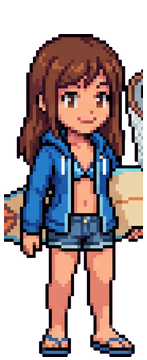
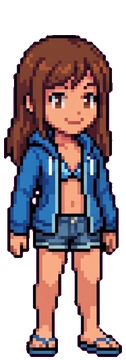
v10.2: cidade com profundidade, treinador montado, caminhada animada, rivais corrigidos, sem NPCs andando, HUD sem +

diff --git a/dev/combate.html b/dev/combate.html
@@ -3367,20 +3367,25 @@ for(const k of Object.keys(LIB_KIND)) for(let t=1;t<=4;t++) ICON_FILE[libKey(k,t
 const ico = (k, cls='') => ICON_FILE[k] ? `<img class="ico ${cls}" src="ui/${ICON_FILE[k]}.png" alt="">` : `<i class="dot" style="background:${(ITEMS[k]||{}).color||'#ffc23d'}"></i>`;
 // ===== Personagens (arte final): sprites recortados em char/. Sem a imagem, cai no desenho provisório =====
 const CHAR = {}, CHARO = {}; // CHAR: pixel art (cidade) · CHARO: arte original (resto do jogo)
-const ASSET_V = '94'; // muda quando as imagens dos personagens/cidade mudarem (o navegador guarda as antigas)
+const ASSET_V = '95'; // muda quando as imagens dos personagens/cidade mudarem (o navegador guarda as antigas)
 for(const k of [...['heroM','heroF','heroG','heroS'].flatMap(h=>[0,1,2,3,4,5].map(i=>`${h}_${i}`)), ...[0,1,2,3,4].map(i=>`npc_${i}`), ...[0,1,2,3,4,5].map(i=>`tr_${i}`), 'rideM','rideF','rideS','rideG']){
   const im = new Image(); im.onload = ()=>{ bg = null; if(typeof cityBg!=='undefined') cityBg = null; if(!$('starter').hidden) pickStarter(); }; im.src = `char/${k}.png?v=${ASSET_V}`; CHAR[k] = im;
   const io = new Image(); io.src = `charo/${k}.png?v=${ASSET_V}`; CHARO[k] = io; }
+for(const h of 'MF') for(const m of ['cabrito','lagarto','grifo','lobo']){ const im = new Image(); im.src = `char/rd${h}_${m}.png?v=${ASSET_V}`; CHAR[`rd${h}_${m}`] = im; } // treinador montado (pixel, só cidade)
+for(const h of 'MF') for(const d of 'sfb') for(let i=0;i<4;i++){ const im = new Image(); im.src = `char/wk${h}_${d}${i}.png?v=${ASSET_V}`; CHAR[`wk${h}_${d}${i}`] = im; } // passos do treinador (pixel, só cidade)
 const heroKey = view => `hero${(save && save.costume) || (save && save.hero) || 'M'}_${view}`; // 0 frente · 1 três-quartos · 2 lado (andando) · 3 costas · 4 costas arremessando · 5 costas comemorando
 const heroPose = view => { const k = heroKey(view), im = CHAR[k]; return im && im.complete && im.naturalWidth ? k : heroKey(3); };
 const charOk = im => im && im.complete && im.naturalWidth;
 function drawSprite(g, key, x, y, h=124, flip=false, o={}){
   const im = PX_SCENE ? (charOk(CHAR[key]) ? CHAR[key] : CHARO[key]) : (charOk(CHARO[key]) ? CHARO[key] : CHAR[key]); if(!charOk(im)) return false;
   const w = im.naturalWidth*h/im.naturalHeight, bob = o.bob||0;
-  if(!o.noShadow){ g.fillStyle='#0005'; g.beginPath(); g.ellipse(x,y+2,w*.32,9,0,0,7); g.fill(); }
+  if(!o.noShadow && !PX_SCENE){ g.fillStyle='#0005'; g.beginPath(); g.ellipse(x,y+2,w*.32,9,0,0,7); g.fill(); } // cidade: sombra vem do cenário
   g.save(); g.translate(x, y+bob); if(flip) g.scale(-1,1); if(o.clipY!=null){ g.beginPath(); g.rect(-w,-h-10,w*2,h+10-o.clipY); g.clip(); } g.drawImage(im,-w/2,-h,w,h); g.restore(); return true;
 }
 function drawTrainer(g,x,y,o={}){
+  if(o.sprite !== false && !o.sprite && PX_SCENE && o.walk && !(save && (save.costume==='G' || save.costume==='S'))){ // cidade: quadros de caminhada de verdade (pernas alternando)
+    const d = o.dir==='up' ? 'b' : o.dir==='down' ? 'f' : 's', k = `wk${(save&&save.hero)==='F'?'F':'M'}_${d}${Math.floor(o.walk/125)%4}`;
+    if(charOk(CHAR[k])){ const bob = -Math.abs(Math.sin(o.walk/125*Math.PI/2))*2; if(drawSprite(g, k, x, y, o.h||124, (o.face||1) < 0 && d==='s', {bob, noShadow:o.noShadow})) return; } }
   if(o.sprite !== false){ const walking = o.walk || o.step, pose = o.sprite || heroKey(!walking ? 1 : o.dir==='up' ? 3 : o.dir==='down' ? 0 : 2);
     const ph = o.walk ? o.walk/90 : 0, bob = walking ? -Math.abs(Math.sin(ph))*5 : 0, tilt = walking ? Math.sin(ph)*0.06 : 0; // passos: sobe/desce e balança de leve
     g.save(); if(tilt){ g.translate(x, y); g.rotate(tilt); g.translate(-x, -y); } const ok = drawSprite(g, pose, x, y, o.h||124, (o.face||1) < 0 && (!walking || o.dir==='side' || !o.dir), {bob}); g.restore(); if(ok) return; }
@@ -3426,7 +3431,9 @@ function drawMount(g, k, x, y, sc=1, face=1, step=0){
 const SADDLE = {cabrito:[-.08,.6], lagarto:[.03,.58], grifo:[-.02,.5], lobo:[-.14,.62]}; // posição da sela: fração da largura a partir do centro, fração da altura a partir do chão
 function drawRider(g, x, y, o={}){
   if(!o.mount) return drawTrainer(g,x,y,o);
-  const f = o.face||1, step = o.step||0, lift = -Math.abs(step)*1.5; drawMount(g, o.mount, x, y, 1, f, step);
+  const f = o.face||1, step = o.step||0, lift = -Math.abs(step)*1.5;
+  if(PX_SCENE){ const rk2 = `rd${(save&&save.hero)==='F'?'F':'M'}_${o.mount}`; if(charOk(CHAR[rk2])){ const ph = o.walk ? o.walk/90 : 0, bob = o.walk ? -Math.abs(Math.sin(ph*1.4))*4 : 0; // imagem única: treinador sentado na montaria
+    drawSprite(g, rk2, x, y, 212, f<0, {bob}); return; } } drawMount(g, o.mount, x, y, 1, f, step);
   const H = o.h||124, mi = monImg('m:'+o.mount), S = SADDLE[o.mount];
   const sx = mi ? S[0]*150*mi.naturalWidth/mi.naturalHeight*f : -4*f, seat = mi ? S[1]*150 : 50;
   const rk = `ride${(save&&save.costume)||(save&&save.hero)||'M'}`;
@@ -4583,7 +4590,42 @@ function bakeCity(){
   g.save(); g.scale(S,S); g.globalCompositeOperation = 'soft-light'; const lg = g.createLinearGradient(0,0,CW,CH); lg.addColorStop(0,'rgba(255,220,160,.22)'); lg.addColorStop(1,'rgba(60,40,120,.18)'); g.fillStyle = lg; g.fillRect(0,0,CW,CH); g.restore();
   const occ = OCC.map(o=>{ const b = occBox(o); if(b.w<=0||b.h<=0) return null; const oc = document.createElement('canvas'); oc.width = Math.max(1,Math.round(b.w*S)); oc.height = Math.max(1,Math.round(b.h*S)); const og = oc.getContext('2d');
     og.scale(S,S); og.translate(-b.x,-b.y); occPath(og, o.s); og.clip(); og.setTransform(1,0,0,1,0,0); og.drawImage(c, Math.round(b.x*S), Math.round(b.y*S), oc.width, oc.height, 0, 0, oc.width, oc.height); return {...b, c:oc}; });
-  return {c, S, occ}; }
+  // mapa de luz (sombra de árvores/prédios escurece quem passa) e versão desfocada (profundidade de campo nas bordas)
+  let lum = null, lumMean = 0; try{ const lw = Math.round(CW/16), lh = Math.round(CH/16), lc = document.createElement('canvas'); lc.width = lw; lc.height = lh; const lg2 = lc.getContext('2d'); lg2.drawImage(c, 0, 0, lw, lh);
+    const d = lg2.getImageData(0,0,lw,lh).data; lum = new Float32Array(lw*lh); for(let i=0;i<lw*lh;i++){ lum[i] = (d[i*4]*.3 + d[i*4+1]*.59 + d[i*4+2]*.11)/255; lumMean += lum[i]; } lumMean /= lw*lh; lum.w = lw; lum.h = lh; }catch(e){ lum = null; }
+  let blur = null; if(!GFX_LOW){ blur = document.createElement('canvas'); blur.width = Math.round(bw/2); blur.height = Math.round(bh/2); const bg2 = blur.getContext('2d'); bg2.filter = 'blur(3px)'; bg2.drawImage(c, 0, 0, blur.width, blur.height); }
+  return {c, S, occ, lum, lumMean, blur}; }
+// luz do lugar onde o personagem pisa (0 = claro, até ~.5 = sombra forte)
+function cityShade(x, y){ const L = cityBg && cityBg.lum; if(!L) return 0; let t = 0, n = 0;
+  for(let dy=-1; dy<=1; dy++) for(let dx=-1; dx<=1; dx++){ const ix = Math.max(0, Math.min(L.w-1, Math.round(x/16)+dx)), iy = Math.max(0, Math.min(L.h-1, Math.round((y-14)/16)+dy)); t += L[iy*L.w+ix]; n++; }
+  return Math.max(0, Math.min(.5, (cityBg.lumMean - t/n)*1.6)); }
+// personagem "dentro" do cenário: sombra projetada pelo sol (baixo-direita), escurece na sombra, luz quente por cima
+const LIT = {c:null, s:null};
+function drawLit(g, x, y, f){
+  const S = cityBg ? cityBg.S : 1, bx = 170, top = 310, bot = 30, w = Math.round(bx*2*S), h = Math.round((top+bot)*S);
+  if(!LIT.c){ LIT.c = document.createElement('canvas'); LIT.s = document.createElement('canvas'); }
+  const C = LIT.c, Sh = LIT.s; if(C.width !== w || C.height !== h){ C.width = Sh.width = w; C.height = Sh.height = h; }
+  const cg = C.getContext('2d'); cg.setTransform(1,0,0,1,0,0); cg.clearRect(0,0,w,h); cg.setTransform(S,0,0,S,-(x-bx)*S,-(y-top)*S); cg.imageSmoothingEnabled = true; f(cg);
+  cg.setTransform(1,0,0,1,0,0); const dk = cityShade(x, y);
+  cg.globalCompositeOperation = 'source-atop'; if(dk > .02){ cg.fillStyle = `rgba(22,18,48,${dk})`; cg.fillRect(0,0,w,h); } cg.fillStyle = 'rgba(255,196,130,.07)'; cg.fillRect(0,0,w,h); cg.globalCompositeOperation = 'source-over';
+  const sg = Sh.getContext('2d'); sg.setTransform(1,0,0,1,0,0); sg.clearRect(0,0,w,h); sg.drawImage(C,0,0); sg.globalCompositeOperation = 'source-in'; sg.fillStyle = '#140f26'; sg.fillRect(0,0,w,h); sg.globalCompositeOperation = 'source-over';
+  g.save(); g.globalAlpha = .26*(1-dk*1.4); g.transform(1, 0, -.75, -.34, x, y); g.drawImage(Sh, -bx, -top, bx*2, top+bot); g.restore(); // sombra deitada no chão
+  g.drawImage(C, x-bx, y-top, bx*2, top+bot); }
+const VIGN = {c:null};
+function cityPost(g, ts){ // depois dos personagens: sombras de nuvens, névoa ao longe e vinheta (dá profundidade)
+  const W2 = g.canvas.width, H2 = g.canvas.height; g.save(); g.setTransform(1,0,0,1,0,0);
+  if(!GFX_LOW){ g.globalCompositeOperation = 'multiply'; for(let i=0;i<3;i++){ const t = ts/1000*(6+i*2), cx = ((i*0.37*W2*3 + t*W2/90) % (W2*1.8)) - W2*.4, cy = H2*(.2+.3*i), r = W2*(.22+.05*i);
+      const gr = g.createRadialGradient(cx,cy,r*.1,cx,cy,r); gr.addColorStop(0,'rgba(70,80,120,.16)'); gr.addColorStop(1,'rgba(70,80,120,0)'); g.fillStyle = gr; g.fillRect(cx-r,cy-r,r*2,r*2); } g.globalCompositeOperation = 'source-over'; }
+  const hz = g.createLinearGradient(0,0,0,H2*.35); hz.addColorStop(0,'rgba(190,215,255,.12)'); hz.addColorStop(1,'rgba(190,215,255,0)'); g.fillStyle = hz; g.fillRect(0,0,W2,H2*.35);
+  if(!VIGN.c || VIGN.c.width !== W2 || VIGN.c.height !== H2){ const v = VIGN.c = document.createElement('canvas'); v.width = W2; v.height = H2; const vg = v.getContext('2d'); const gr = vg.createRadialGradient(W2/2,H2*.55,Math.min(W2,H2)*.35,W2/2,H2*.55,Math.max(W2,H2)*.75); gr.addColorStop(0,'rgba(10,8,30,0)'); gr.addColorStop(1,'rgba(10,8,30,.42)'); vg.fillStyle = gr; vg.fillRect(0,0,W2,H2); }
+  g.drawImage(VIGN.c, 0, 0); g.restore(); }
+function cityDof(g){ // profundidade de campo: em cima (longe) e embaixo (perto da câmera) levemente desfocados
+  const B = cityBg; if(!B || !B.blur || GFX_LOW) return; const W2 = g.canvas.width, H2 = g.canvas.height, S = B.S;
+  if(!cityDof.c){ cityDof.c = document.createElement('canvas'); } const T = cityDof.c;
+  for(const [y0, hh, fromTop] of [[0, H2*.24, true], [H2*.84, H2*.16, false]]){ const hi = Math.ceil(hh); if(T.width !== W2 || T.height !== hi){ T.width = W2; T.height = hi; }
+    const tg = T.getContext('2d'); tg.globalCompositeOperation = 'source-over'; tg.clearRect(0,0,W2,hi); tg.drawImage(B.blur, cam.x*S/2, (cam.y*S + y0)/2, W2/2, hi/2, 0, 0, W2, hi);
+    const m = tg.createLinearGradient(0,0,0,hi); if(fromTop){ m.addColorStop(0,'#000'); m.addColorStop(1,'rgba(0,0,0,0)'); } else { m.addColorStop(0,'rgba(0,0,0,0)'); m.addColorStop(1,'#000'); }
+    tg.globalCompositeOperation = 'destination-in'; tg.fillStyle = m; tg.fillRect(0,0,W2,hi); g.drawImage(T, 0, Math.round(y0)); } }
 const SHADOW_SPR = (()=>{ const c = document.createElement('canvas'); c.width = c.height = 128; const g = c.getContext('2d'); const gr = g.createRadialGradient(64,64,1,64,64,64); gr.addColorStop(0,'rgba(20,16,30,.38)'); gr.addColorStop(.6,'rgba(20,16,30,.17)'); gr.addColorStop(1,'rgba(20,16,30,0)'); g.fillStyle = gr; g.fillRect(0,0,128,128); return c; })();
 const GLOW_SPR = (()=>{ const c = document.createElement('canvas'); c.width = c.height = 128; const g = c.getContext('2d'); const gr = g.createRadialGradient(64,64,2,64,64,64); gr.addColorStop(0,'rgba(255,240,190,1)'); gr.addColorStop(1,'rgba(255,240,190,0)'); g.fillStyle = gr; g.fillRect(0,0,128,128); return c; })();
 function drawOcc(g, o, i){ const k = cityBg && cityBg.occ[i]; if(k) g.drawImage(k.c, k.x, k.y, k.w, k.h); }
@@ -4667,7 +4709,7 @@ function renderCity0(ts){
   const g = cctx, KC = cityK(); if(ccv.width !== Math.round(W*KC)){ ccv.width = Math.round(W*KC); ccv.height = Math.round(H*KC); cityBg = null; }
   if(!cityBg || cityBg.S !== KC*CZ) cityBg = bakeCity();
   g.setTransform(1,0,0,1,0,0); g.fillStyle='#3a5a3a'; g.fillRect(0,0,ccv.width,ccv.height);
-  if(cityBg){ const S = cityBg.S; g.drawImage(cityBg.c, Math.round(cam.x*S), Math.round(cam.y*S), ccv.width, ccv.height, 0, 0, ccv.width, ccv.height); }
+  if(cityBg){ const S = cityBg.S; g.drawImage(cityBg.c, Math.round(cam.x*S), Math.round(cam.y*S), ccv.width, ccv.height, 0, 0, ccv.width, ccv.height); cityDof(g); }
   g.setTransform(KC*CZ,0,0,KC*CZ,-cam.x*KC*CZ,-cam.y*KC*CZ); g.imageSmoothingEnabled = true;
   // brilho suave da fonte e dos pedestais (vida no cenário)
   if(!GFX_LOW){ const t = ts/900; g.save(); g.globalCompositeOperation = 'lighter'; for(const [x,y] of [[1210,520],[890,800],[1600,800],[1210,1040]]){ g.globalAlpha = .10 + .06*Math.sin(t + x); g.drawImage(GLOW_SPR, x-120, y-120, 240, 240); } g.restore(); }
@@ -4679,13 +4721,14 @@ function renderCity0(ts){
     late.push(()=>{ const yy = a.y - 150*PK(a.y); g.font = '800 17px "Baloo 2",sans-serif'; g.textAlign = 'center'; const t1 = `Top 1 ${a.t}`, t2 = r.name, tw = Math.max(g.measureText(t1).width, g.measureText(t2).width)+22;
       g.fillStyle = '#2a1606e0'; g.strokeStyle = '#ffd25a'; g.lineWidth = 2; g.beginPath(); g.roundRect(a.x-tw/2, yy-38, tw, 44, 9); g.fill(); g.stroke();
       g.fillStyle = '#ffd25a'; g.fillText(t1, a.x, yy-20); g.fillStyle = r.me ? '#7fe0ff' : '#fff'; g.fillText(t2, a.x, yy); }); });
-  const who = (x,y,f) => items.push({y, d:()=>{ softShadow(g, x, y, 30*PK(y)); f(); }});
-  for(const w of WANDER){ who(w.x, w.y, ()=>{ CS(g,w.x,w.y,()=>drawTrainer(g,w.x,w.y,{shirt:w.shirt,cap:w.cap,hair:w.hair,face:w.face,dir:w.dir,walk:w.walk||0,step:w.walk?Math.sin(w.walk/90)*6:0, sprite:`tr_${WANDER.indexOf(w)%6}`, noShadow:true})); late.push(()=>{ label(g,w.x,w.y-104*PK(w.y),w.name,w.real?'#ffd25a':'#bff4ff'); if(w.sayT>0) bubble(g, w.x, w.y-122*PK(w.y), w.say); }); });
+  const who = (x,y,f) => items.push({y, d:()=>{ softShadow(g, x, y, 30*PK(y)); if(GFX_LOW || !cityBg) f(g); else drawLit(g, x, y, f); }});
+  if(false) for(const w of WANDER){ who(w.x, w.y, ()=>{ CS(g,w.x,w.y,()=>drawTrainer(g,w.x,w.y,{shirt:w.shirt,cap:w.cap,hair:w.hair,face:w.face,dir:w.dir,walk:w.walk||0,step:w.walk?Math.sin(w.walk/90)*6:0, sprite:`tr_${WANDER.indexOf(w)%6}`, noShadow:true})); late.push(()=>{ label(g,w.x,w.y-104*PK(w.y),w.name,w.real?'#ffd25a':'#bff4ff'); if(w.sayT>0) bubble(g, w.x, w.y-122*PK(w.y), w.say); }); });
     who(w.px, w.py, ()=>{ CS(g,w.px,w.py,()=>drawCreature(g,w.sp,w.px,w.py,.72,w.face,{form:w.form, walk:w.walk||0, noShadow:true})); }); }
   const sp0 = save.team[0], o0 = save.owned[sp0];
-  who(me.x, me.y, ()=>{ CS(g,me.x,me.y,()=>drawRider(g,me.x,me.y,{face:me.face, dir:me.dir, walk:me.walk||0, step:me.walk?Math.sin(me.walk/90)*6:0, mount:save.mount&&save.mount.cur})); late.push(()=>label(g,me.x,me.y-110*PK(me.y),'Você','#7fe0ff')); });
-  who(pet.x, pet.y, ()=>{ CS(g,pet.x,pet.y,()=>drawCreature(g,sp0,pet.x,pet.y,.8,me.face,{form:o0.form, bob:me.walk?0:Math.sin(ts/200)*2, walk:me.walk||0, noShadow:true})); late.push(()=>label(g,pet.x,pet.y-62*PK(pet.y),unitOf(sp0).name,'#7dff6a')); });
+  who(me.x, me.y, gg=>{ CS(gg,me.x,me.y,()=>drawRider(gg,me.x,me.y,{face:me.face, dir:me.dir, walk:me.walk||0, step:me.walk?Math.sin(me.walk/90)*6:0, mount:save.mount&&save.mount.cur})); late.push(()=>label(g,me.x,me.y-(save.mount&&save.mount.cur?212:132)*PK(me.y),'Você','#7fe0ff')); });
+  who(pet.x, pet.y, gg=>{ CS(gg,pet.x,pet.y,()=>drawCreature(gg,sp0,pet.x,pet.y,.8,me.face,{form:o0.form, bob:me.walk?0:Math.sin(ts/200)*2, walk:me.walk||0, noShadow:true})); late.push(()=>label(g,pet.x,pet.y-62*PK(pet.y),unitOf(sp0).name,'#7dff6a')); });
   items.sort((a,b)=>a.y-b.y).forEach(i=>i.d());
+  cityPost(g, ts);
   late.forEach(f=>f());
   // placas dos lugares
   for(const b of BUILDINGS){ if(b.noTag) continue; g.font='800 22px "Baloo 2",sans-serif'; g.textAlign='center'; const tw = g.measureText(b.name).width+24, near = nearB===b;
@@ -4695,7 +4738,7 @@ function renderCity0(ts){
 }
 ccv.addEventListener('pointerdown', e=>{
   const r = ccv.getBoundingClientRect(), x = (e.clientX-r.left)*W/r.width/CZ + cam.x, y = (e.clientY-r.top)*H/r.height/CZ + cam.y;
-  const w = WANDER.find(w=>Math.abs(x-w.x)<24 && y<w.y+6 && y>w.y-110);
+  const w = null;
   if(w) return toast(w.real ? `${w.name} · jogador real · Poder ${w.power} · Nv ${w.lv}` : `${w.name} · Poder ${w.power} · treinador da Arena`);
   const al = ALTARS.find(a=>Math.hypot(x-a.x, y-(a.y-60))<80); if(al){ rankTab = al.tab; me.tx = al.x; me.ty = al.base+30; me.after = 'rank'; return; }
   const b = BUILDINGS.find(b=>{ const [hx,hy,hw,hh] = b.hit; return (x>hx&&x<hx+hw&&y>hy&&y<hy+hh) || Math.hypot(x-b.tag.x,y-b.tag.y)<70; });
@@ -4806,7 +4849,7 @@ function renderCityHud0(){
   const T = titleOf(save);
   { const lv = save.trainer.lv, need = expTrainer(lv), xp = isFinite(need) ? Math.min(100, Math.round(100*(save.trainer.exp||0)/need)) : 100;
     $('cRes').innerHTML = `<div class="cName"><span class="cNick">${(save.name||'Treinador').replace(/</g,'')}</span><div class="cPlate" title="Título">${T.name}</div><div class="cXp" title="EXP do treinador ${xp}%"><i style="width:${xp}%"></i></div></div>`
-      + `<div class="cResBar"><span class="rplate rp-dia">${ico('dia','rico')}<b>+${fmtN(save.diamonds||0)}</b></span><span class="rplate rp-gold pbtn" data-buy="gold" role="button" title="Trocar diamantes por ouro">${ico('gold','rico')}<b>+${fmtN(save.gold)}</b></span><span class="rplate rp-vit pbtn" data-buy="vit" role="button" title="Comprar VIT">${ico('vit','rico')}<b>+${vitNow(save,now)}/${vitMax(save)}</b></span></div>`; }
+      + `<div class="cResBar"><span class="rplate rp-dia">${ico('dia','rico')}<b>${fmtN(save.diamonds||0)}</b></span><span class="rplate rp-gold pbtn" data-buy="gold" role="button" title="Trocar diamantes por ouro">${ico('gold','rico')}<b>${fmtN(save.gold)}</b></span><span class="rplate rp-vit pbtn" data-buy="vit" role="button" title="Comprar VIT">${ico('vit','rico')}<b>${vitNow(save,now)}/${vitMax(save)}</b></span></div>`; }
   $('cRes').querySelectorAll('[data-buy]').forEach(b=> b.onclick = ()=> b.dataset.buy==='gold' ? openGoldEx() : openVitBuy());
   const dot = (id,n)=>{ const b = $(id); if(!b) return; const o = b.querySelector('.dotn'); if(o) o.remove(); if(n) b.insertAdjacentHTML('beforeend', `<b class="dotn">${n}</b>`); };
   dot('cbAch', featOpen('ach') && achReady()); dot('cbEvt', featOpen('evt') && evtReady()); dot('cbLogin', !featOpen('login') || loginToday().claimed ? 0 : '!'); renderFeatLocks();

diff --git a/site/index.html b/site/index.html
@@ -3367,20 +3367,25 @@ for(const k of Object.keys(LIB_KIND)) for(let t=1;t<=4;t++) ICON_FILE[libKey(k,t
 const ico = (k, cls='') => ICON_FILE[k] ? `<img class="ico ${cls}" src="ui/${ICON_FILE[k]}.png" alt="">` : `<i class="dot" style="background:${(ITEMS[k]||{}).color||'#ffc23d'}"></i>`;
 // ===== Personagens (arte final): sprites recortados em char/. Sem a imagem, cai no desenho provisório =====
 const CHAR = {}, CHARO = {}; // CHAR: pixel art (cidade) · CHARO: arte original (resto do jogo)
-const ASSET_V = '94'; // muda quando as imagens dos personagens/cidade mudarem (o navegador guarda as antigas)
+const ASSET_V = '95'; // muda quando as imagens dos personagens/cidade mudarem (o navegador guarda as antigas)
 for(const k of [...['heroM','heroF','heroG','heroS'].flatMap(h=>[0,1,2,3,4,5].map(i=>`${h}_${i}`)), ...[0,1,2,3,4].map(i=>`npc_${i}`), ...[0,1,2,3,4,5].map(i=>`tr_${i}`), 'rideM','rideF','rideS','rideG']){
   const im = new Image(); im.onload = ()=>{ bg = null; if(typeof cityBg!=='undefined') cityBg = null; if(!$('starter').hidden) pickStarter(); }; im.src = `char/${k}.png?v=${ASSET_V}`; CHAR[k] = im;
   const io = new Image(); io.src = `charo/${k}.png?v=${ASSET_V}`; CHARO[k] = io; }
+for(const h of 'MF') for(const m of ['cabrito','lagarto','grifo','lobo']){ const im = new Image(); im.src = `char/rd${h}_${m}.png?v=${ASSET_V}`; CHAR[`rd${h}_${m}`] = im; } // treinador montado (pixel, só cidade)
+for(const h of 'MF') for(const d of 'sfb') for(let i=0;i<4;i++){ const im = new Image(); im.src = `char/wk${h}_${d}${i}.png?v=${ASSET_V}`; CHAR[`wk${h}_${d}${i}`] = im; } // passos do treinador (pixel, só cidade)
 const heroKey = view => `hero${(save && save.costume) || (save && save.hero) || 'M'}_${view}`; // 0 frente · 1 três-quartos · 2 lado (andando) · 3 costas · 4 costas arremessando · 5 costas comemorando
 const heroPose = view => { const k = heroKey(view), im = CHAR[k]; return im && im.complete && im.naturalWidth ? k : heroKey(3); };
 const charOk = im => im && im.complete && im.naturalWidth;
 function drawSprite(g, key, x, y, h=124, flip=false, o={}){
   const im = PX_SCENE ? (charOk(CHAR[key]) ? CHAR[key] : CHARO[key]) : (charOk(CHARO[key]) ? CHARO[key] : CHAR[key]); if(!charOk(im)) return false;
   const w = im.naturalWidth*h/im.naturalHeight, bob = o.bob||0;
-  if(!o.noShadow){ g.fillStyle='#0005'; g.beginPath(); g.ellipse(x,y+2,w*.32,9,0,0,7); g.fill(); }
+  if(!o.noShadow && !PX_SCENE){ g.fillStyle='#0005'; g.beginPath(); g.ellipse(x,y+2,w*.32,9,0,0,7); g.fill(); } // cidade: sombra vem do cenário
   g.save(); g.translate(x, y+bob); if(flip) g.scale(-1,1); if(o.clipY!=null){ g.beginPath(); g.rect(-w,-h-10,w*2,h+10-o.clipY); g.clip(); } g.drawImage(im,-w/2,-h,w,h); g.restore(); return true;
 }
 function drawTrainer(g,x,y,o={}){
+  if(o.sprite !== false && !o.sprite && PX_SCENE && o.walk && !(save && (save.costume==='G' || save.costume==='S'))){ // cidade: quadros de caminhada de verdade (pernas alternando)
+    const d = o.dir==='up' ? 'b' : o.dir==='down' ? 'f' : 's', k = `wk${(save&&save.hero)==='F'?'F':'M'}_${d}${Math.floor(o.walk/125)%4}`;
+    if(charOk(CHAR[k])){ const bob = -Math.abs(Math.sin(o.walk/125*Math.PI/2))*2; if(drawSprite(g, k, x, y, o.h||124, (o.face||1) < 0 && d==='s', {bob, noShadow:o.noShadow})) return; } }
   if(o.sprite !== false){ const walking = o.walk || o.step, pose = o.sprite || heroKey(!walking ? 1 : o.dir==='up' ? 3 : o.dir==='down' ? 0 : 2);
     const ph = o.walk ? o.walk/90 : 0, bob = walking ? -Math.abs(Math.sin(ph))*5 : 0, tilt = walking ? Math.sin(ph)*0.06 : 0; // passos: sobe/desce e balança de leve
     g.save(); if(tilt){ g.translate(x, y); g.rotate(tilt); g.translate(-x, -y); } const ok = drawSprite(g, pose, x, y, o.h||124, (o.face||1) < 0 && (!walking || o.dir==='side' || !o.dir), {bob}); g.restore(); if(ok) return; }
@@ -3426,7 +3431,9 @@ function drawMount(g, k, x, y, sc=1, face=1, step=0){
 const SADDLE = {cabrito:[-.08,.6], lagarto:[.03,.58], grifo:[-.02,.5], lobo:[-.14,.62]}; // posição da sela: fração da largura a partir do centro, fração da altura a partir do chão
 function drawRider(g, x, y, o={}){
   if(!o.mount) return drawTrainer(g,x,y,o);
-  const f = o.face||1, step = o.step||0, lift = -Math.abs(step)*1.5; drawMount(g, o.mount, x, y, 1, f, step);
+  const f = o.face||1, step = o.step||0, lift = -Math.abs(step)*1.5;
+  if(PX_SCENE){ const rk2 = `rd${(save&&save.hero)==='F'?'F':'M'}_${o.mount}`; if(charOk(CHAR[rk2])){ const ph = o.walk ? o.walk/90 : 0, bob = o.walk ? -Math.abs(Math.sin(ph*1.4))*4 : 0; // imagem única: treinador sentado na montaria
+    drawSprite(g, rk2, x, y, 212, f<0, {bob}); return; } } drawMount(g, o.mount, x, y, 1, f, step);
   const H = o.h||124, mi = monImg('m:'+o.mount), S = SADDLE[o.mount];
   const sx = mi ? S[0]*150*mi.naturalWidth/mi.naturalHeight*f : -4*f, seat = mi ? S[1]*150 : 50;
   const rk = `ride${(save&&save.costume)||(save&&save.hero)||'M'}`;
@@ -4583,7 +4590,42 @@ function bakeCity(){
   g.save(); g.scale(S,S); g.globalCompositeOperation = 'soft-light'; const lg = g.createLinearGradient(0,0,CW,CH); lg.addColorStop(0,'rgba(255,220,160,.22)'); lg.addColorStop(1,'rgba(60,40,120,.18)'); g.fillStyle = lg; g.fillRect(0,0,CW,CH); g.restore();
   const occ = OCC.map(o=>{ const b = occBox(o); if(b.w<=0||b.h<=0) return null; const oc = document.createElement('canvas'); oc.width = Math.max(1,Math.round(b.w*S)); oc.height = Math.max(1,Math.round(b.h*S)); const og = oc.getContext('2d');
     og.scale(S,S); og.translate(-b.x,-b.y); occPath(og, o.s); og.clip(); og.setTransform(1,0,0,1,0,0); og.drawImage(c, Math.round(b.x*S), Math.round(b.y*S), oc.width, oc.height, 0, 0, oc.width, oc.height); return {...b, c:oc}; });
-  return {c, S, occ}; }
+  // mapa de luz (sombra de árvores/prédios escurece quem passa) e versão desfocada (profundidade de campo nas bordas)
+  let lum = null, lumMean = 0; try{ const lw = Math.round(CW/16), lh = Math.round(CH/16), lc = document.createElement('canvas'); lc.width = lw; lc.height = lh; const lg2 = lc.getContext('2d'); lg2.drawImage(c, 0, 0, lw, lh);
+    const d = lg2.getImageData(0,0,lw,lh).data; lum = new Float32Array(lw*lh); for(let i=0;i<lw*lh;i++){ lum[i] = (d[i*4]*.3 + d[i*4+1]*.59 + d[i*4+2]*.11)/255; lumMean += lum[i]; } lumMean /= lw*lh; lum.w = lw; lum.h = lh; }catch(e){ lum = null; }
+  let blur = null; if(!GFX_LOW){ blur = document.createElement('canvas'); blur.width = Math.round(bw/2); blur.height = Math.round(bh/2); const bg2 = blur.getContext('2d'); bg2.filter = 'blur(3px)'; bg2.drawImage(c, 0, 0, blur.width, blur.height); }
+  return {c, S, occ, lum, lumMean, blur}; }
+// luz do lugar onde o personagem pisa (0 = claro, até ~.5 = sombra forte)
+function cityShade(x, y){ const L = cityBg && cityBg.lum; if(!L) return 0; let t = 0, n = 0;
+  for(let dy=-1; dy<=1; dy++) for(let dx=-1; dx<=1; dx++){ const ix = Math.max(0, Math.min(L.w-1, Math.round(x/16)+dx)), iy = Math.max(0, Math.min(L.h-1, Math.round((y-14)/16)+dy)); t += L[iy*L.w+ix]; n++; }
+  return Math.max(0, Math.min(.5, (cityBg.lumMean - t/n)*1.6)); }
+// personagem "dentro" do cenário: sombra projetada pelo sol (baixo-direita), escurece na sombra, luz quente por cima
+const LIT = {c:null, s:null};
+function drawLit(g, x, y, f){
+  const S = cityBg ? cityBg.S : 1, bx = 170, top = 310, bot = 30, w = Math.round(bx*2*S), h = Math.round((top+bot)*S);
+  if(!LIT.c){ LIT.c = document.createElement('canvas'); LIT.s = document.createElement('canvas'); }
+  const C = LIT.c, Sh = LIT.s; if(C.width !== w || C.height !== h){ C.width = Sh.width = w; C.height = Sh.height = h; }
+  const cg = C.getContext('2d'); cg.setTransform(1,0,0,1,0,0); cg.clearRect(0,0,w,h); cg.setTransform(S,0,0,S,-(x-bx)*S,-(y-top)*S); cg.imageSmoothingEnabled = true; f(cg);
+  cg.setTransform(1,0,0,1,0,0); const dk = cityShade(x, y);
+  cg.globalCompositeOperation = 'source-atop'; if(dk > .02){ cg.fillStyle = `rgba(22,18,48,${dk})`; cg.fillRect(0,0,w,h); } cg.fillStyle = 'rgba(255,196,130,.07)'; cg.fillRect(0,0,w,h); cg.globalCompositeOperation = 'source-over';
+  const sg = Sh.getContext('2d'); sg.setTransform(1,0,0,1,0,0); sg.clearRect(0,0,w,h); sg.drawImage(C,0,0); sg.globalCompositeOperation = 'source-in'; sg.fillStyle = '#140f26'; sg.fillRect(0,0,w,h); sg.globalCompositeOperation = 'source-over';
+  g.save(); g.globalAlpha = .26*(1-dk*1.4); g.transform(1, 0, -.75, -.34, x, y); g.drawImage(Sh, -bx, -top, bx*2, top+bot); g.restore(); // sombra deitada no chão
+  g.drawImage(C, x-bx, y-top, bx*2, top+bot); }
+const VIGN = {c:null};
+function cityPost(g, ts){ // depois dos personagens: sombras de nuvens, névoa ao longe e vinheta (dá profundidade)
+  const W2 = g.canvas.width, H2 = g.canvas.height; g.save(); g.setTransform(1,0,0,1,0,0);
+  if(!GFX_LOW){ g.globalCompositeOperation = 'multiply'; for(let i=0;i<3;i++){ const t = ts/1000*(6+i*2), cx = ((i*0.37*W2*3 + t*W2/90) % (W2*1.8)) - W2*.4, cy = H2*(.2+.3*i), r = W2*(.22+.05*i);
+      const gr = g.createRadialGradient(cx,cy,r*.1,cx,cy,r); gr.addColorStop(0,'rgba(70,80,120,.16)'); gr.addColorStop(1,'rgba(70,80,120,0)'); g.fillStyle = gr; g.fillRect(cx-r,cy-r,r*2,r*2); } g.globalCompositeOperation = 'source-over'; }
+  const hz = g.createLinearGradient(0,0,0,H2*.35); hz.addColorStop(0,'rgba(190,215,255,.12)'); hz.addColorStop(1,'rgba(190,215,255,0)'); g.fillStyle = hz; g.fillRect(0,0,W2,H2*.35);
+  if(!VIGN.c || VIGN.c.width !== W2 || VIGN.c.height !== H2){ const v = VIGN.c = document.createElement('canvas'); v.width = W2; v.height = H2; const vg = v.getContext('2d'); const gr = vg.createRadialGradient(W2/2,H2*.55,Math.min(W2,H2)*.35,W2/2,H2*.55,Math.max(W2,H2)*.75); gr.addColorStop(0,'rgba(10,8,30,0)'); gr.addColorStop(1,'rgba(10,8,30,.42)'); vg.fillStyle = gr; vg.fillRect(0,0,W2,H2); }
+  g.drawImage(VIGN.c, 0, 0); g.restore(); }
+function cityDof(g){ // profundidade de campo: em cima (longe) e embaixo (perto da câmera) levemente desfocados
+  const B = cityBg; if(!B || !B.blur || GFX_LOW) return; const W2 = g.canvas.width, H2 = g.canvas.height, S = B.S;
+  if(!cityDof.c){ cityDof.c = document.createElement('canvas'); } const T = cityDof.c;
+  for(const [y0, hh, fromTop] of [[0, H2*.24, true], [H2*.84, H2*.16, false]]){ const hi = Math.ceil(hh); if(T.width !== W2 || T.height !== hi){ T.width = W2; T.height = hi; }
+    const tg = T.getContext('2d'); tg.globalCompositeOperation = 'source-over'; tg.clearRect(0,0,W2,hi); tg.drawImage(B.blur, cam.x*S/2, (cam.y*S + y0)/2, W2/2, hi/2, 0, 0, W2, hi);
+    const m = tg.createLinearGradient(0,0,0,hi); if(fromTop){ m.addColorStop(0,'#000'); m.addColorStop(1,'rgba(0,0,0,0)'); } else { m.addColorStop(0,'rgba(0,0,0,0)'); m.addColorStop(1,'#000'); }
+    tg.globalCompositeOperation = 'destination-in'; tg.fillStyle = m; tg.fillRect(0,0,W2,hi); g.drawImage(T, 0, Math.round(y0)); } }
 const SHADOW_SPR = (()=>{ const c = document.createElement('canvas'); c.width = c.height = 128; const g = c.getContext('2d'); const gr = g.createRadialGradient(64,64,1,64,64,64); gr.addColorStop(0,'rgba(20,16,30,.38)'); gr.addColorStop(.6,'rgba(20,16,30,.17)'); gr.addColorStop(1,'rgba(20,16,30,0)'); g.fillStyle = gr; g.fillRect(0,0,128,128); return c; })();
 const GLOW_SPR = (()=>{ const c = document.createElement('canvas'); c.width = c.height = 128; const g = c.getContext('2d'); const gr = g.createRadialGradient(64,64,2,64,64,64); gr.addColorStop(0,'rgba(255,240,190,1)'); gr.addColorStop(1,'rgba(255,240,190,0)'); g.fillStyle = gr; g.fillRect(0,0,128,128); return c; })();
 function drawOcc(g, o, i){ const k = cityBg && cityBg.occ[i]; if(k) g.drawImage(k.c, k.x, k.y, k.w, k.h); }
@@ -4667,7 +4709,7 @@ function renderCity0(ts){
   const g = cctx, KC = cityK(); if(ccv.width !== Math.round(W*KC)){ ccv.width = Math.round(W*KC); ccv.height = Math.round(H*KC); cityBg = null; }
   if(!cityBg || cityBg.S !== KC*CZ) cityBg = bakeCity();
   g.setTransform(1,0,0,1,0,0); g.fillStyle='#3a5a3a'; g.fillRect(0,0,ccv.width,ccv.height);
-  if(cityBg){ const S = cityBg.S; g.drawImage(cityBg.c, Math.round(cam.x*S), Math.round(cam.y*S), ccv.width, ccv.height, 0, 0, ccv.width, ccv.height); }
+  if(cityBg){ const S = cityBg.S; g.drawImage(cityBg.c, Math.round(cam.x*S), Math.round(cam.y*S), ccv.width, ccv.height, 0, 0, ccv.width, ccv.height); cityDof(g); }
   g.setTransform(KC*CZ,0,0,KC*CZ,-cam.x*KC*CZ,-cam.y*KC*CZ); g.imageSmoothingEnabled = true;
   // brilho suave da fonte e dos pedestais (vida no cenário)
   if(!GFX_LOW){ const t = ts/900; g.save(); g.globalCompositeOperation = 'lighter'; for(const [x,y] of [[1210,520],[890,800],[1600,800],[1210,1040]]){ g.globalAlpha = .10 + .06*Math.sin(t + x); g.drawImage(GLOW_SPR, x-120, y-120, 240, 240); } g.restore(); }
@@ -4679,13 +4721,14 @@ function renderCity0(ts){
     late.push(()=>{ const yy = a.y - 150*PK(a.y); g.font = '800 17px "Baloo 2",sans-serif'; g.textAlign = 'center'; const t1 = `Top 1 ${a.t}`, t2 = r.name, tw = Math.max(g.measureText(t1).width, g.measureText(t2).width)+22;
       g.fillStyle = '#2a1606e0'; g.strokeStyle = '#ffd25a'; g.lineWidth = 2; g.beginPath(); g.roundRect(a.x-tw/2, yy-38, tw, 44, 9); g.fill(); g.stroke();
       g.fillStyle = '#ffd25a'; g.fillText(t1, a.x, yy-20); g.fillStyle = r.me ? '#7fe0ff' : '#fff'; g.fillText(t2, a.x, yy); }); });
-  const who = (x,y,f) => items.push({y, d:()=>{ softShadow(g, x, y, 30*PK(y)); f(); }});
-  for(const w of WANDER){ who(w.x, w.y, ()=>{ CS(g,w.x,w.y,()=>drawTrainer(g,w.x,w.y,{shirt:w.shirt,cap:w.cap,hair:w.hair,face:w.face,dir:w.dir,walk:w.walk||0,step:w.walk?Math.sin(w.walk/90)*6:0, sprite:`tr_${WANDER.indexOf(w)%6}`, noShadow:true})); late.push(()=>{ label(g,w.x,w.y-104*PK(w.y),w.name,w.real?'#ffd25a':'#bff4ff'); if(w.sayT>0) bubble(g, w.x, w.y-122*PK(w.y), w.say); }); });
+  const who = (x,y,f) => items.push({y, d:()=>{ softShadow(g, x, y, 30*PK(y)); if(GFX_LOW || !cityBg) f(g); else drawLit(g, x, y, f); }});
+  if(false) for(const w of WANDER){ who(w.x, w.y, ()=>{ CS(g,w.x,w.y,()=>drawTrainer(g,w.x,w.y,{shirt:w.shirt,cap:w.cap,hair:w.hair,face:w.face,dir:w.dir,walk:w.walk||0,step:w.walk?Math.sin(w.walk/90)*6:0, sprite:`tr_${WANDER.indexOf(w)%6}`, noShadow:true})); late.push(()=>{ label(g,w.x,w.y-104*PK(w.y),w.name,w.real?'#ffd25a':'#bff4ff'); if(w.sayT>0) bubble(g, w.x, w.y-122*PK(w.y), w.say); }); });
     who(w.px, w.py, ()=>{ CS(g,w.px,w.py,()=>drawCreature(g,w.sp,w.px,w.py,.72,w.face,{form:w.form, walk:w.walk||0, noShadow:true})); }); }
   const sp0 = save.team[0], o0 = save.owned[sp0];
-  who(me.x, me.y, ()=>{ CS(g,me.x,me.y,()=>drawRider(g,me.x,me.y,{face:me.face, dir:me.dir, walk:me.walk||0, step:me.walk?Math.sin(me.walk/90)*6:0, mount:save.mount&&save.mount.cur})); late.push(()=>label(g,me.x,me.y-110*PK(me.y),'Você','#7fe0ff')); });
-  who(pet.x, pet.y, ()=>{ CS(g,pet.x,pet.y,()=>drawCreature(g,sp0,pet.x,pet.y,.8,me.face,{form:o0.form, bob:me.walk?0:Math.sin(ts/200)*2, walk:me.walk||0, noShadow:true})); late.push(()=>label(g,pet.x,pet.y-62*PK(pet.y),unitOf(sp0).name,'#7dff6a')); });
+  who(me.x, me.y, gg=>{ CS(gg,me.x,me.y,()=>drawRider(gg,me.x,me.y,{face:me.face, dir:me.dir, walk:me.walk||0, step:me.walk?Math.sin(me.walk/90)*6:0, mount:save.mount&&save.mount.cur})); late.push(()=>label(g,me.x,me.y-(save.mount&&save.mount.cur?212:132)*PK(me.y),'Você','#7fe0ff')); });
+  who(pet.x, pet.y, gg=>{ CS(gg,pet.x,pet.y,()=>drawCreature(gg,sp0,pet.x,pet.y,.8,me.face,{form:o0.form, bob:me.walk?0:Math.sin(ts/200)*2, walk:me.walk||0, noShadow:true})); late.push(()=>label(g,pet.x,pet.y-62*PK(pet.y),unitOf(sp0).name,'#7dff6a')); });
   items.sort((a,b)=>a.y-b.y).forEach(i=>i.d());
+  cityPost(g, ts);
   late.forEach(f=>f());
   // placas dos lugares
   for(const b of BUILDINGS){ if(b.noTag) continue; g.font='800 22px "Baloo 2",sans-serif'; g.textAlign='center'; const tw = g.measureText(b.name).width+24, near = nearB===b;
@@ -4695,7 +4738,7 @@ function renderCity0(ts){
 }
 ccv.addEventListener('pointerdown', e=>{
   const r = ccv.getBoundingClientRect(), x = (e.clientX-r.left)*W/r.width/CZ + cam.x, y = (e.clientY-r.top)*H/r.height/CZ + cam.y;
-  const w = WANDER.find(w=>Math.abs(x-w.x)<24 && y<w.y+6 && y>w.y-110);
+  const w = null;
   if(w) return toast(w.real ? `${w.name} · jogador real · Poder ${w.power} · Nv ${w.lv}` : `${w.name} · Poder ${w.power} · treinador da Arena`);
   const al = ALTARS.find(a=>Math.hypot(x-a.x, y-(a.y-60))<80); if(al){ rankTab = al.tab; me.tx = al.x; me.ty = al.base+30; me.after = 'rank'; return; }
   const b = BUILDINGS.find(b=>{ const [hx,hy,hw,hh] = b.hit; return (x>hx&&x<hx+hw&&y>hy&&y<hy+hh) || Math.hypot(x-b.tag.x,y-b.tag.y)<70; });
@@ -4806,7 +4849,7 @@ function renderCityHud0(){
   const T = titleOf(save);
   { const lv = save.trainer.lv, need = expTrainer(lv), xp = isFinite(need) ? Math.min(100, Math.round(100*(save.trainer.exp||0)/need)) : 100;
     $('cRes').innerHTML = `<div class="cName"><span class="cNick">${(save.name||'Treinador').replace(/</g,'')}</span><div class="cPlate" title="Título">${T.name}</div><div class="cXp" title="EXP do treinador ${xp}%"><i style="width:${xp}%"></i></div></div>`
-      + `<div class="cResBar"><span class="rplate rp-dia">${ico('dia','rico')}<b>+${fmtN(save.diamonds||0)}</b></span><span class="rplate rp-gold pbtn" data-buy="gold" role="button" title="Trocar diamantes por ouro">${ico('gold','rico')}<b>+${fmtN(save.gold)}</b></span><span class="rplate rp-vit pbtn" data-buy="vit" role="button" title="Comprar VIT">${ico('vit','rico')}<b>+${vitNow(save,now)}/${vitMax(save)}</b></span></div>`; }
+      + `<div class="cResBar"><span class="rplate rp-dia">${ico('dia','rico')}<b>${fmtN(save.diamonds||0)}</b></span><span class="rplate rp-gold pbtn" data-buy="gold" role="button" title="Trocar diamantes por ouro">${ico('gold','rico')}<b>${fmtN(save.gold)}</b></span><span class="rplate rp-vit pbtn" data-buy="vit" role="button" title="Comprar VIT">${ico('vit','rico')}<b>${vitNow(save,now)}/${vitMax(save)}</b></span></div>`; }
   $('cRes').querySelectorAll('[data-buy]').forEach(b=> b.onclick = ()=> b.dataset.buy==='gold' ? openGoldEx() : openVitBuy());
   const dot = (id,n)=>{ const b = $(id); if(!b) return; const o = b.querySelector('.dotn'); if(o) o.remove(); if(n) b.insertAdjacentHTML('beforeend', `<b class="dotn">${n}</b>`); };
   dot('cbAch', featOpen('ach') && achReady()); dot('cbEvt', featOpen('evt') && evtReady()); dot('cbLogin', !featOpen('login') || loginToday().claimed ? 0 : '!'); renderFeatLocks();

diff --git a/dev/PASSAGEM_DE_BASTAO.md b/dev/PASSAGEM_DE_BASTAO.md
@@ -411,3 +411,11 @@ A Beatriz pediu: **toda atualização nova vai para o link dos amigos**. Depois 
 - Personagens: char/ = pixel (cidade), charo/ = arte original (resto). drawSprite escolhe por PX_SCENE.
 - Montarias: px/m_<k>.webp (pixel na cidade); tela de Montarias continua pintada.
 - Recompensas: medalha da Arena com ícone de verdade; "Diamantes" e retrato da criatura nova no popup da 1ª vitória; título longo do resultado menor.
+
+## v10.2
+- NPCs que andavam na cidade (WANDER) não são mais desenhados (o chat do mundo continua).
+- HUD da cidade: diamante, ouro e VIT sem o "+".
+- Treinador montado: imagem única por montaria (char/rd{M,F}_{cabrito,lagarto,grifo,lobo}.png, Gemini), só na cidade.
+- Caminhada: quadros reais (char/wk{M,F}_{s,f,b}{0-3}.png) — lado, frente e costas; fantasias G/S usam o balanço antigo.
+- Rivais tr_0..5 refeitos sem prancha/rede/mochila cortadas.
+- Cidade com profundidade: drawLit (sombra projetada pelo sol, escurece na sombra do cenário via mapa de luz, luz quente), cityDof (desfoque leve em cima/embaixo), cityPost (sombras de nuvens, névoa ao longe, vinheta). Tudo desligado em Gráficos baixos.
